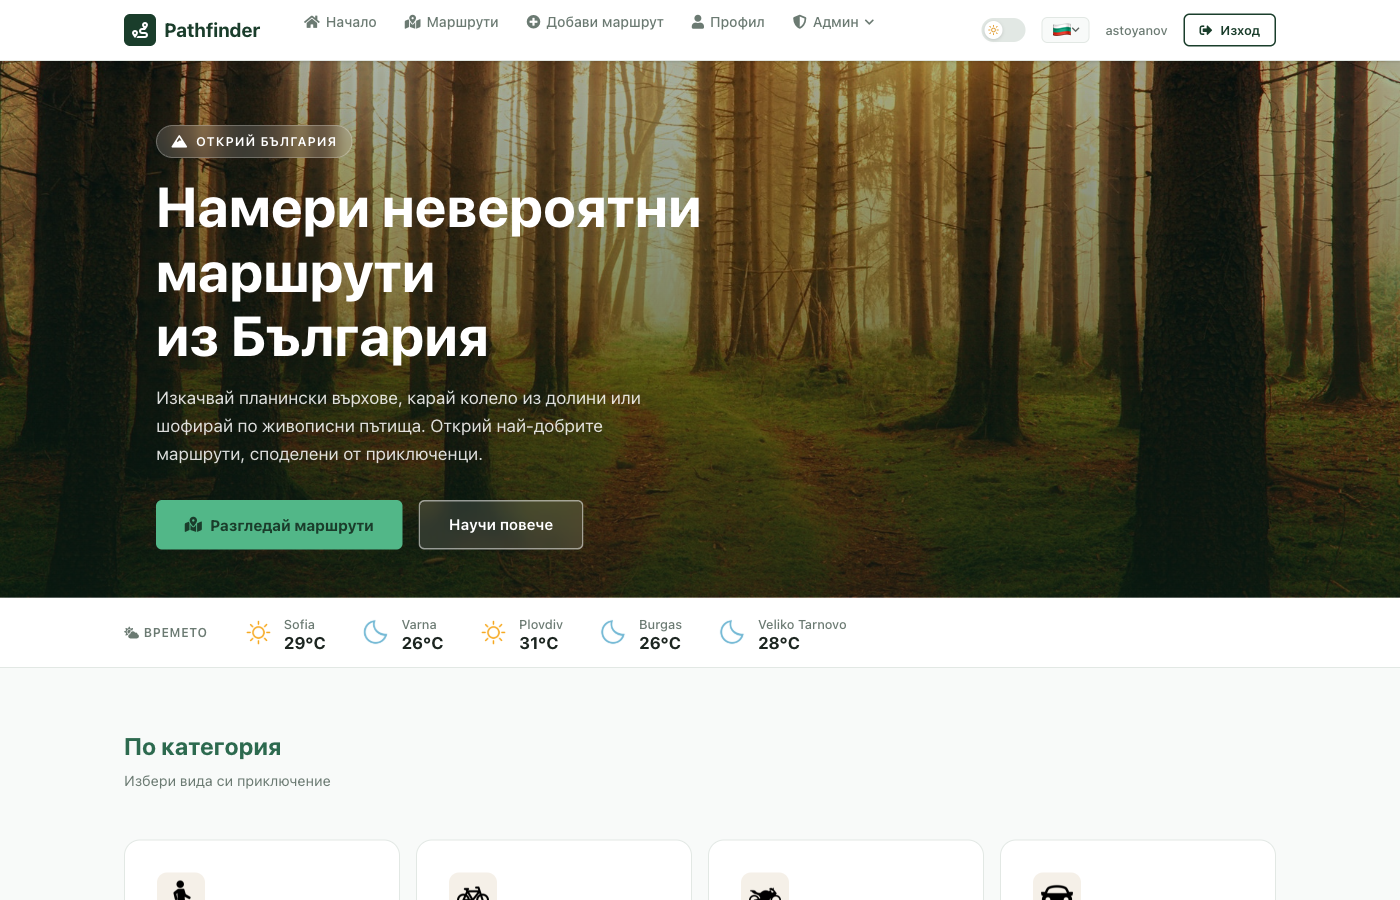
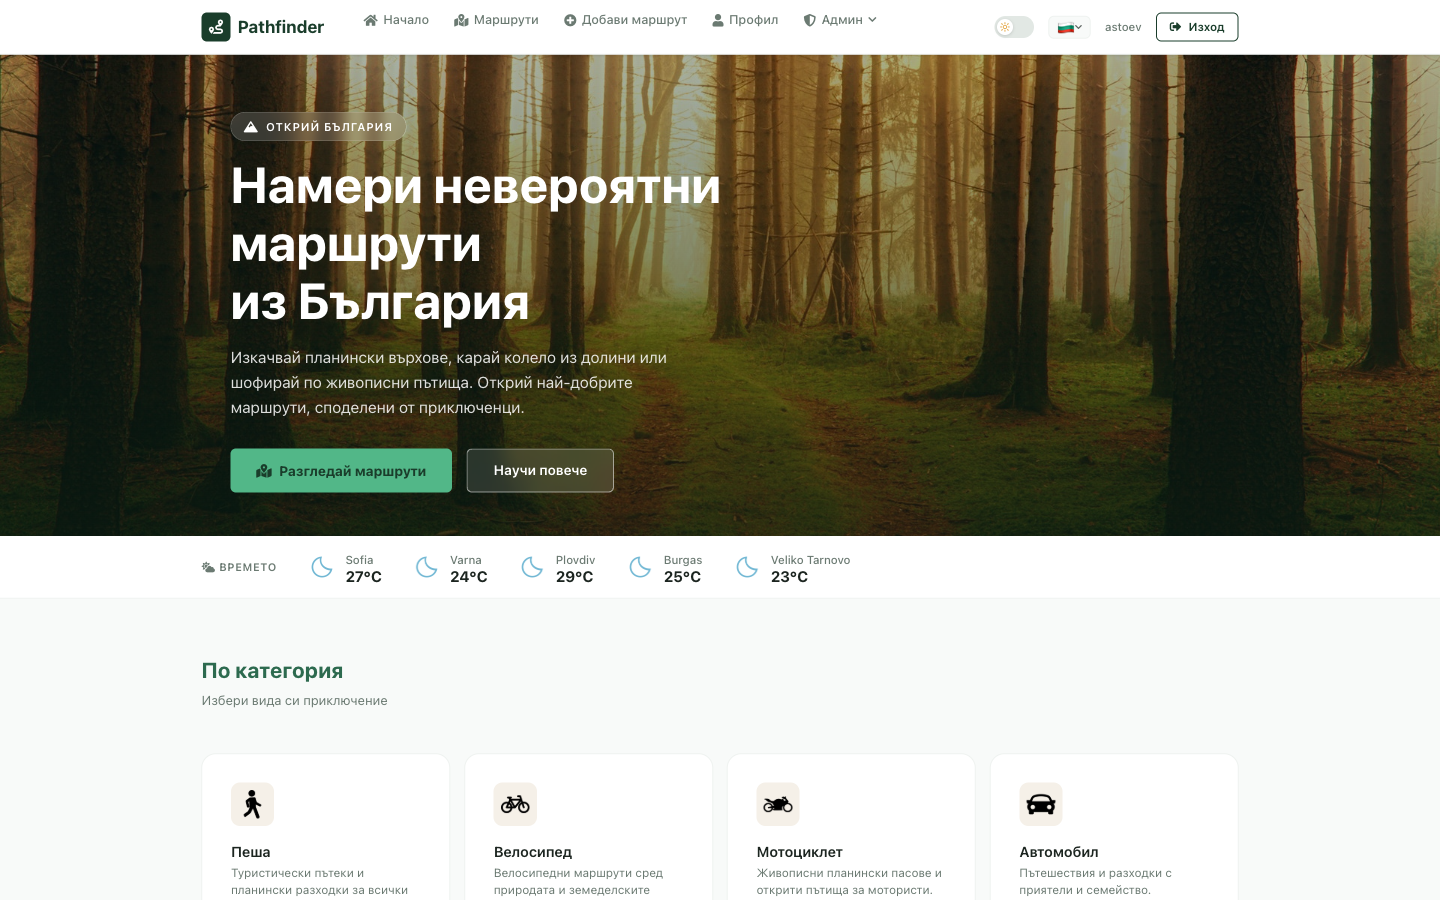
Rename routes, fix spelling, update author, retake screenshots
- Route 7: "Вратцата" → "Врацата" (name, GPX metadata, picture titles)
- Route 12: "Леденика пещера" → "Парк Леденика"
- User id=1: astoyanov/Александър Стоянов → astoev/Андрей Стоев
- Add main_picture_url column; set deterministic tile image for Парк Леденика
- RouteService: resolveTileImage() prefers main_picture_url, falls back to min-id picture
- Retake all README screenshots at 100% zoom; add promo screenshot (Рилски езера)

diff --git a/src/main/java/com/pathfinder/service/RouteService.java b/src/main/java/com/pathfinder/service/RouteService.java
@@ -111,12 +111,7 @@ public class RouteService {
         return routeRepository.findAllWithPictures().stream().map(
                 r -> {
                     RouteIndexView route = mapStructMapper.toView(r);
-                    route.setPictureUrl(
-                            r.getPictures()
-                                    .stream()
-                                    .findAny()
-                                    .orElse(new PictureEntity().setUrl(DEFAULT_PIC_URL))
-                                    .getUrl());
+                    route.setPictureUrl(resolveTileImage(r));
                     return route;
                 }
         ).toList();
@@ -128,11 +123,7 @@ public class RouteService {
                 PageRequest.of(page, PAGE_SIZE, Sort.by("id").descending())
         ).map(r -> {
             RouteIndexView route = mapStructMapper.toView(r);
-            route.setPictureUrl(
-                    r.getPictures().stream()
-                            .findAny()
-                            .orElse(new PictureEntity().setUrl(DEFAULT_PIC_URL))
-                            .getUrl());
+            route.setPictureUrl(resolveTileImage(r));
             return route;
         });
     }
@@ -212,13 +203,19 @@ public class RouteService {
         return routeRepository.searchByNameOrDescription(query.trim()).stream()
                 .map(r -> {
                     RouteIndexView route = mapStructMapper.toView(r);
-                    route.setPictureUrl(
-                            r.getPictures().stream()
-                                    .findAny()
-                                    .orElse(new PictureEntity().setUrl(DEFAULT_PIC_URL))
-                                    .getUrl());
+                    route.setPictureUrl(resolveTileImage(r));
                     return route;
                 }).toList();
+    }
+
+    private String resolveTileImage(RouteEntity r) {
+        if (r.getMainPictureUrl() != null) {
+            return r.getMainPictureUrl();
+        }
+        return r.getPictures().stream()
+                .min(java.util.Comparator.comparingLong(PictureEntity::getId))
+                .map(PictureEntity::getUrl)
+                .orElse(DEFAULT_PIC_URL);
     }
 
     private String buildSafeFileName() {

diff --git a/src/main/java/com/pathfinder/model/entity/RouteEntity.java b/src/main/java/com/pathfinder/model/entity/RouteEntity.java
@@ -44,6 +44,8 @@ public class RouteEntity extends GenericEntity {
 
     private String videoUrl;
 
+    private String mainPictureUrl;
+
     @ManyToOne(optional = false)
     @JoinColumn(name = "author_id", referencedColumnName = "id")
     private UserEntity author;

diff --git a/README.md b/README.md
@@ -30,6 +30,9 @@ A Spring Boot web application for sharing and discovering hiking, cycling, and d
 ### Admin Panel — User Permissions
 ![User Permissions](assets/05.png)
 
+### Promo — Цикъл на Рилските езера
+![Promo](assets/promo.png)
+
 ---
 
 ## Quick Start
